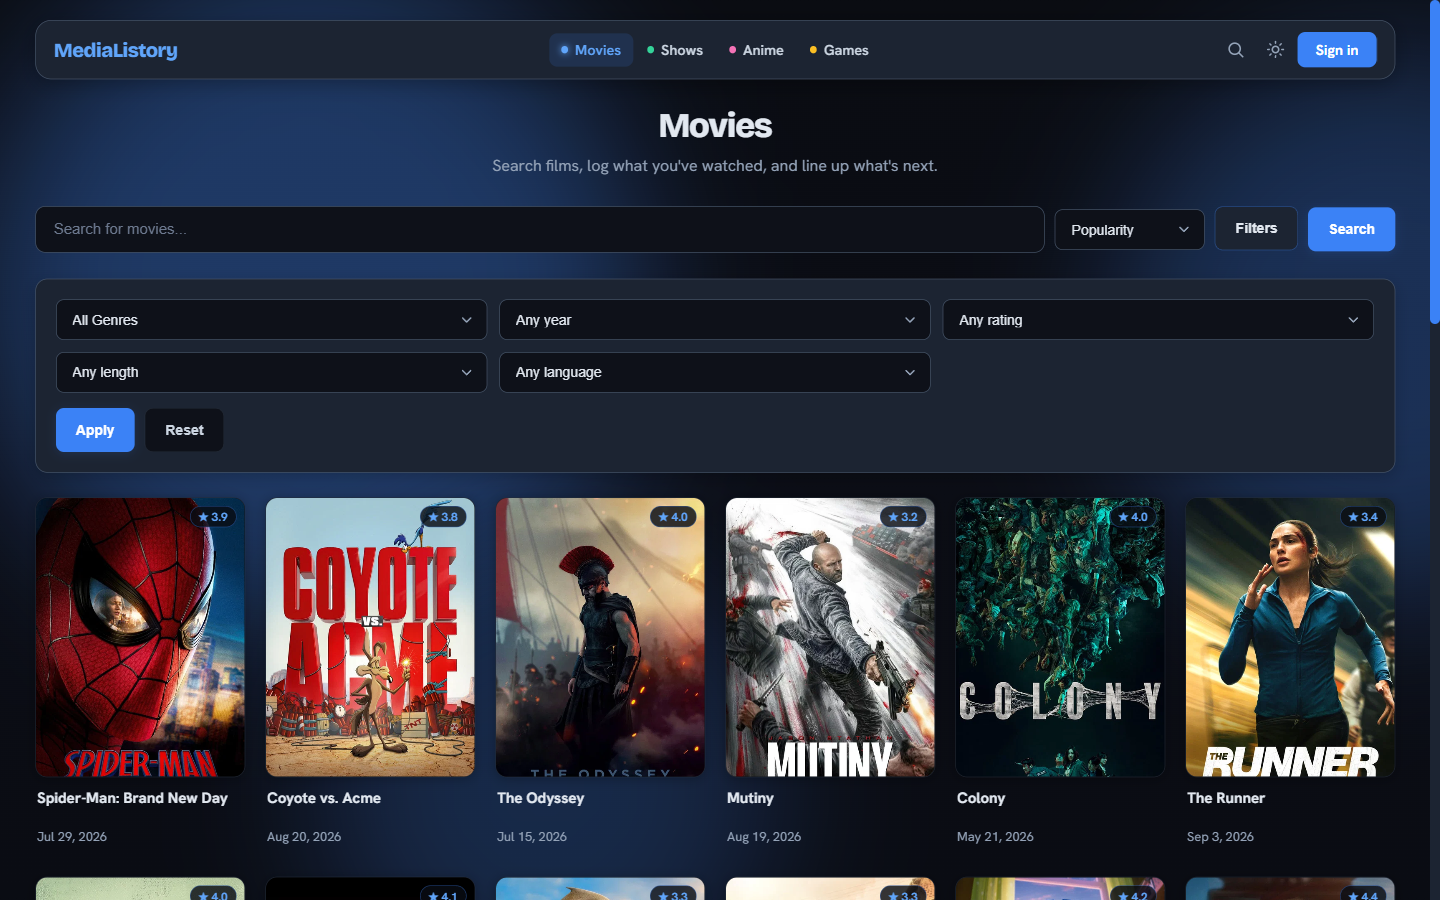
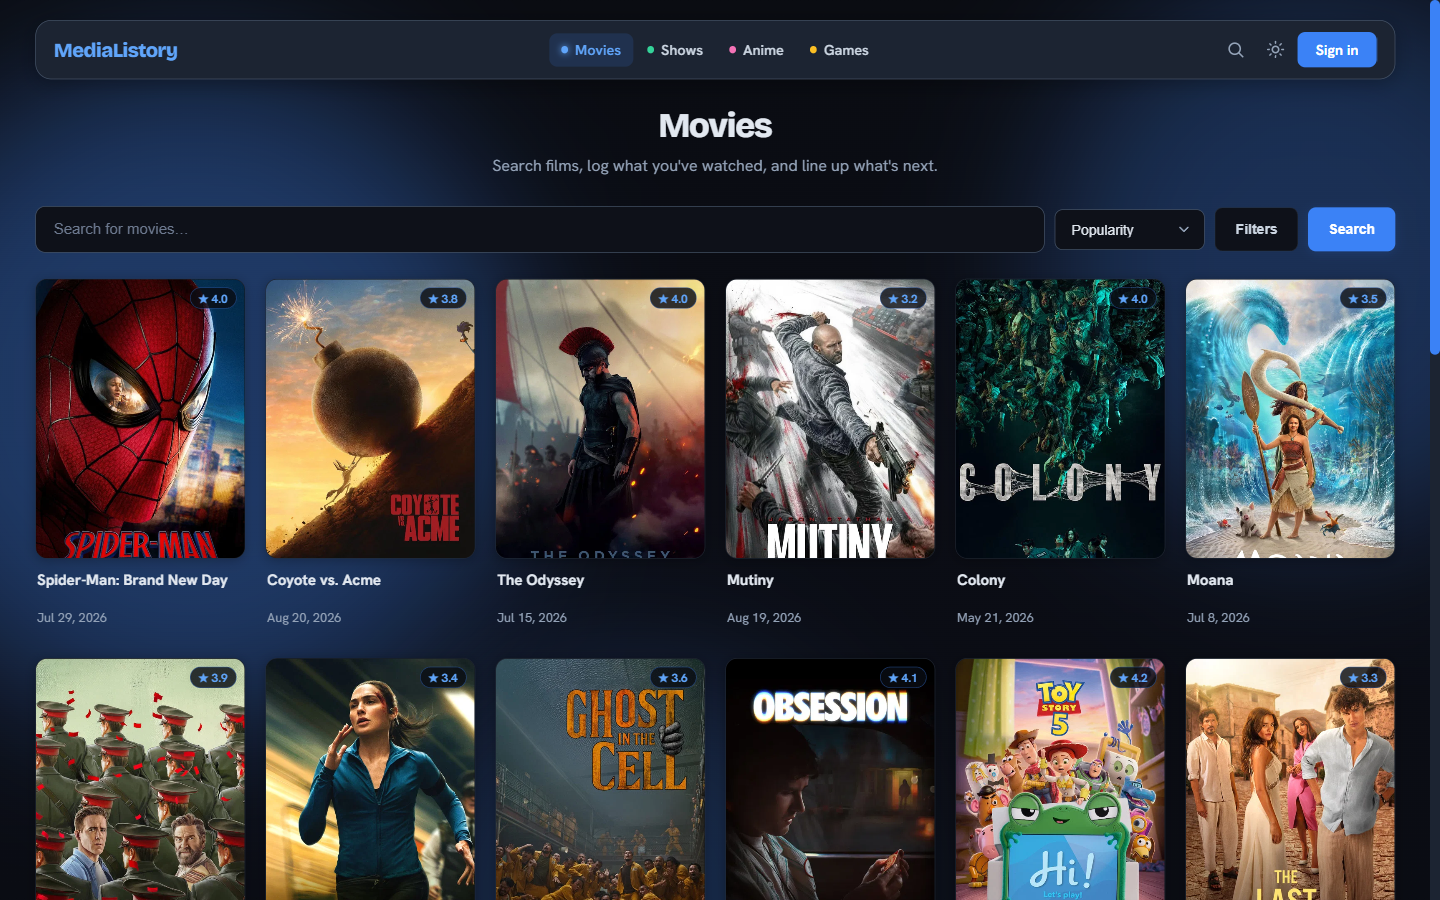
Refresh the README showcase with new guest-mode screenshots
All four category pages captured signed out (no personal account), shown
as a grid so the per-category accent reads at a glance - blue movies,
green shows, pink anime, amber games - over the one shared layout. The
title shot is the new poster-anchored detail page (Red Dead Redemption 2),
which also shows the CheapShark price and the add-to-library panel.

Adds an Open source section surfacing the licence, contributing guide,
code of conduct, security policy, issue templates and CI, plus build-none,
PRs-welcome and code-of-conduct badges.

diff --git a/README.md b/README.md
@@ -11,8 +11,11 @@
 
 <p align="center">
   <a href="https://github.com/Gr33nOps/medialistory/actions/workflows/ci.yml"><img src="https://img.shields.io/github/actions/workflow/status/Gr33nOps/medialistory/ci.yml?branch=main&style=flat-square&label=CI" alt="CI status"></a>
-  <a href="package.json"><img src="https://img.shields.io/badge/node-%3E%3D18-339933?style=flat-square&logo=node.js&logoColor=white" alt="Node 18 or newer"></a>
   <a href="LICENSE"><img src="https://img.shields.io/badge/license-MIT-blue?style=flat-square" alt="MIT license"></a>
+  <a href="package.json"><img src="https://img.shields.io/badge/node-%3E%3D18-339933?style=flat-square&logo=node.js&logoColor=white" alt="Node 18 or newer"></a>
+  <a href="package.json"><img src="https://img.shields.io/badge/build-none-informational?style=flat-square" alt="No build step"></a>
+  <a href="CONTRIBUTING.md"><img src="https://img.shields.io/badge/PRs-welcome-brightgreen?style=flat-square" alt="PRs welcome"></a>
+  <a href="CODE_OF_CONDUCT.md"><img src="https://img.shields.io/badge/code%20of%20conduct-read-6b4fbb?style=flat-square" alt="Code of Conduct"></a>
 </p>
 
 MediaListory started as a game tracker and grew into one place for everything I watch and play. Movies and shows, anime, and games all share the same library, ratings, reviews, lists, and profile, so there is no juggling four apps to remember what you finished.
@@ -23,21 +26,21 @@ This repository is the app itself, MIT licensed. The tour below is the short ver
 
 ## A look around
 
-You land on trending, not on an empty search box. Each category gets its own row, and nothing here is gated: browsing, searching, and opening a title all work signed out.
+Everything here works signed out. Browsing, searching, filtering, and opening any title all work without an account; signing in is only for saving to your library, rating, and following people. Every category opens on popular titles rather than an empty box.
 
-![The MediaListory home page, with trending movies and trending shows in separate rows](docs/screenshots/home.png)
+Each browses on its own terms, because every provider does. Movies and shows come from TMDB, anime from Kitsu, games from IGDB, and each page offers only the filters its provider genuinely supports. Nothing is filtered client side after the fact, so an exact title match comes back first instead of whatever was already on the page.
 
-Every category browses on its own terms, because every provider does. Movies and shows come from TMDB, anime from Kitsu, games from IGDB, and each page only offers the filters its provider genuinely supports. Nothing is filtered client side after the fact, so an exact title match comes back first instead of whatever happened to be on the page you were already looking at.
+The four categories are not skins over one page. They share one layout, library, and rating system, but each carries its own accent color throughout, so you always know where you are.
 
-![The Movies page with the filter panel open, showing genre, year, rating, length, and language](docs/screenshots/browse.png)
+| ![The Movies page — a grid of film posters carrying a blue accent](docs/screenshots/browse.png) | ![The Shows page — the same grid carrying a green accent](docs/screenshots/shows.png) |
+|:--:|:--:|
+| **Movies** — TMDB · blue | **Shows** — TMDB · green |
+| ![The Anime page — the same grid carrying a pink accent](docs/screenshots/anime.png) | ![The Games page — the same grid carrying an amber accent](docs/screenshots/games.png) |
+| **Anime** — Kitsu · pink | **Games** — IGDB · amber |
 
-Open a title and you get the whole record without leaving the grid: genres, director and studio, runtime, the synopsis, a trailer, where to watch it, and a few things to go to next. Saving it takes a status, a score out of ten, and a review if you feel like writing one.
+Open a title and the poster anchors the page. Beside it sit the genres, credits, runtime, and synopsis; below it the trailer, where to watch, and a few things to go to next. Depending on what it is, a title also picks up the best price today, its opening and ending themes, or the run it belongs to. Saving takes a status, a score out of ten, and a review if you feel like writing one.
 
-![The Odyssey opened in a detail overlay, showing metadata, synopsis, and trailer](docs/screenshots/detail.png)
-
-The four categories are not skins over one page. Each carries its own accent color throughout, so you always know where you are: blue for movies, green for shows, pink for anime, amber for games.
-
-![The Games page, the same layout carrying an amber accent instead of blue](docs/screenshots/games.png)
+![The Red Dead Redemption 2 page: a large cover on the left, with genres, developer, publisher, platforms and synopsis beside it, the add-to-library panel, and the current best price below](docs/screenshots/detail.png)
 
 ## What you can do
 
@@ -59,6 +62,19 @@ Beyond that:
 - Switch between light and dark, on desktop or phone
 
 Admin and moderator dashboards ship with it for handling reports and bans.
+
+## Open source
+
+MediaListory is MIT licensed, has no build step, and needs no paid services beyond the data providers, so you can clone it and run your own copy. [Running it yourself](#running-it-yourself) is the full guide.
+
+- **[MIT License](LICENSE)** — use it, fork it, ship it.
+- **[Contributing guide](CONTRIBUTING.md)** — setup, what CI checks, and how the code is laid out. Issues and pull requests are welcome.
+- **[Code of Conduct](CODE_OF_CONDUCT.md)** — short, and it comes down to criticise the work, not the person.
+- **[Security policy](SECURITY.md)** — report a vulnerability privately instead of in the public tracker.
+- **Issue templates** for [bug reports](.github/ISSUE_TEMPLATE/bug_report.md) and [feature requests](.github/ISSUE_TEMPLATE/feature_request.md), so a report carries what's needed to act on it.
+- **Kept honest in CI** — every push runs the unit, smoke, and Playwright suites plus a Semgrep security scan that fails on any finding, and Dependabot watches dependencies.
+
+The app is free and stays that way. If it's useful to you and you feel like it, there's a [Ko-fi](https://ko-fi.com/zain021xd) and [GitHub Sponsors](https://github.com/sponsors/Gr33nOps) — entirely optional.
 
 ## Credits
 
